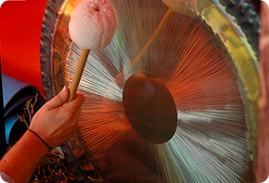
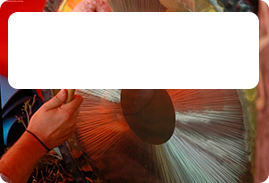
Добавлена картинка right-image1

diff --git a/css/index.css b/css/index.css
@@ -85,36 +85,24 @@ div.content {
 
 .right-image1 {
     background-image: url("../images/right-image1.png");
-    background-repeat: no-repeat;
-    position: relative;
-    top: 60px;
-    left: 975px;
-    height: 233px;
-    z-index: 22;
-}
-
-.right-image2 {
-    background-image: url("../images/right-image2.png");
-    background-repeat: no-repeat;
-    top: 30px;
+    width: 269px;
+    height: 183px;
     left: 975px;
     position: relative;
-    height: 233px;
-    z-index: 22;
 }
 
-.right-image1__item__text {
-    font-size: 10px;
-    max-width: 150px;
+.right-image1__item__text{
+    position: relative;
+
+
 }
 
 .right-image1__item {
-    padding-left: 15px;
-    padding-top: 1px;
-    max-width: 150px;
-    right: 975px;
-    float: right;
+    padding-top: 45px;
+    padding-left: 975px;
 }
+
+
 
 .Прямоугольник__скругл__углы_2 {
     border-radius: 10px;
@@ -127,6 +115,17 @@ div.content {
     z-index: 26;
 }
 
+
+
+.iunD6r8ZxtU_копия {
+    background-image: url("iunD6r8ZxtU копия.png");
+    position: absolute;
+    left: 894px;
+    top: 330px;
+    width: 352px;
+    height: 233px;
+    z-index: 24;
+}
 
 
 

diff --git a/index.html b/index.html
@@ -62,6 +62,6 @@
             <div class="right-image2">
 
             </div>
-        </div>
+
 </body>
 </html>
